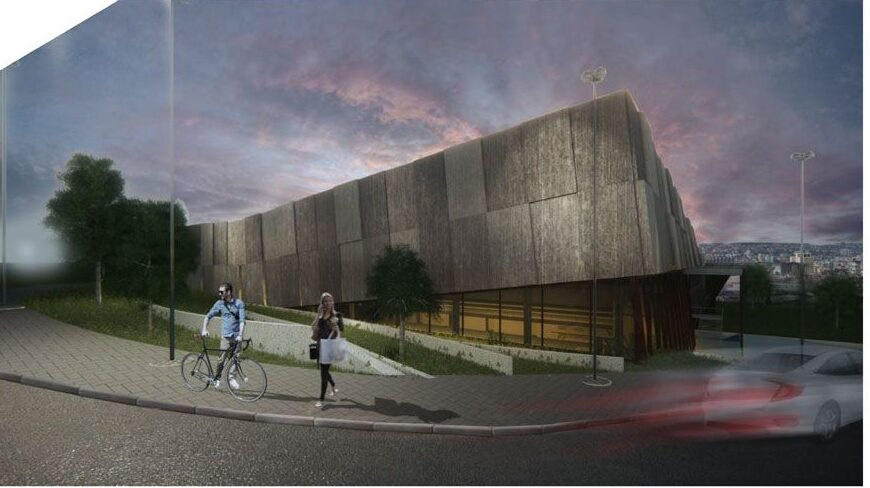
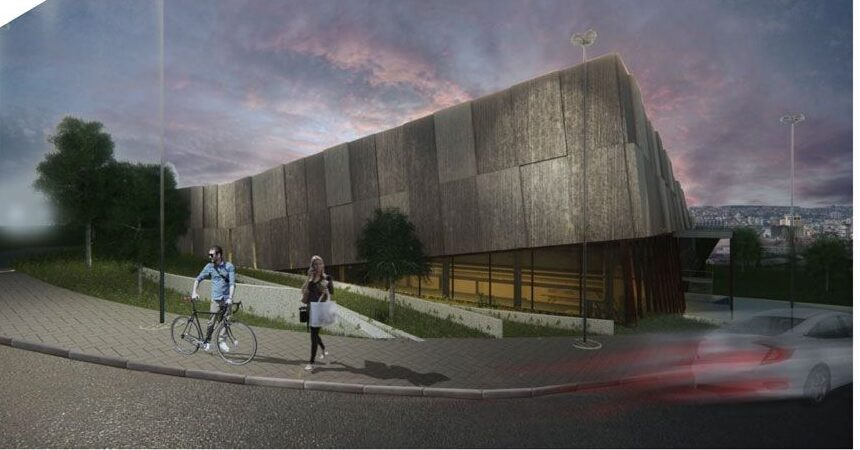
Interactive hero caption, one-row headline, no footer email
Hero now has a caption card (slide count, category, serif title and a
stretching arrow) that animates between slides, progress bars that
fill per slide and pause on hover, and a View badge that follows the
mouse. Headline and intro share one row aligned to the bottom. Removes
the email from the footer and recrops the Olympic Pool hero image.

Claude-Session: https://claude.ai/code/session_011SRKs6sdjGeEEZkMoVuVf3

diff --git a/styles.css b/styles.css
@@ -88,20 +88,62 @@ section[id] { scroll-margin-top: 72px; }
 .hero-slide.active { opacity: 1; pointer-events: auto; }
 .hero-slide img, .hero-slide svg { width: 100%; height: 100%; object-fit: cover; transform: scale(1.04); transition: transform 7s ease-out; }
 .hero-slide.active img { transform: scale(1); }
-.hero-caption {
-  position: absolute; left: 20px; bottom: 18px; padding: 8px 14px; border-radius: 6px;
-  background: rgba(17,17,17,.72); color: #f3f2ee; font-size: 14px; backdrop-filter: blur(6px);
+
+/* Hero caption card */
+.hero-card {
+  position: absolute; left: 20px; bottom: 20px; z-index: 2; display: grid; gap: 6px; min-width: 240px;
+  padding: 16px 20px 14px; border-radius: 8px; color: #f3f2ee;
+  background: rgba(17,17,17,.55); backdrop-filter: blur(12px); -webkit-backdrop-filter: blur(12px);
+  transition: background .3s, transform .3s;
 }
-.hero-caption span { display: inline-block; transition: transform .2s; }
-.hero-slide:hover .hero-caption span { transform: translateX(4px); }
-.hero-dots { position: absolute; right: 20px; bottom: 22px; display: flex; gap: 8px; }
-.hero-dots button { width: 28px; height: 3px; background: rgba(255,255,255,.5); border-radius: 2px; }
-.hero-dots button.active { background: #fff; }
+.hero-card:hover { background: rgba(17,17,17,.78); transform: translateY(-2px); }
+.hero-card > * { transition: opacity .28s ease, transform .28s ease; }
+.hero-card.swap > * { opacity: 0; transform: translateY(8px); }
+.hero-card-meta { display: flex; gap: 12px; font-size: 12px; letter-spacing: .08em; text-transform: uppercase; opacity: .75; }
+.hero-card-title { font-family: var(--serif); font-size: clamp(24px, 2.4vw, 36px); line-height: 1.05; }
+.hero-card-cta { display: flex; align-items: center; gap: 10px; font-size: 14px; margin-top: 4px; }
+.hero-arrow { position: relative; width: 28px; height: 1.3px; background: currentColor; transition: width .35s cubic-bezier(.2,.7,.2,1); }
+.hero-arrow::after {
+  content: ""; position: absolute; right: 0; top: 50%; width: 7px; height: 7px;
+  border-top: 1.3px solid currentColor; border-right: 1.3px solid currentColor; transform: translateY(-50%) rotate(45deg);
+}
+.hero-card:hover .hero-arrow { width: 64px; }
+
+/* Hero progress bars: the active one fills over the slide duration */
+.hero-progress {
+  position: absolute; right: 20px; bottom: 20px; z-index: 2; display: flex; gap: 8px; padding: 6px 12px; border-radius: 999px;
+  background: rgba(17,17,17,.55); backdrop-filter: blur(12px); -webkit-backdrop-filter: blur(12px);
+}
+.hero-progress button { position: relative; width: 36px; height: 14px; }
+.hero-progress button::before, .hero-progress i {
+  content: ""; position: absolute; left: 0; right: 0; top: 6px; height: 2px; border-radius: 2px; background: rgba(255,255,255,.45);
+}
+.hero-progress i { right: auto; width: 0; background: #fff; }
+.hero-progress .done i { width: 100%; }
+.hero-progress .active i { animation: hero-fill 6s linear forwards; }
+.hero-media:hover .hero-progress .active i { animation-play-state: paused; }
+@keyframes hero-fill { from { width: 0; } to { width: 100%; } }
+
+/* "View" cursor badge */
+.hero-cursor {
+  position: absolute; left: 0; top: 0; z-index: 1; width: 88px; height: 88px; margin: -44px 0 0 -44px;
+  display: grid; place-items: center; border-radius: 50%; pointer-events: none;
+  background: rgba(243,242,238,.92); color: #111; font-size: 14px; font-weight: 500;
+  opacity: 0; scale: .4; transition: opacity .25s, scale .25s;
+}
+.hero-cursor.on { opacity: 1; scale: 1; }
+.hero-media:has(.hero-cursor.on) .hero-slide { cursor: none; }
+
+/* Headline and intro share one row; intro aligns to the headline's last line */
+.hero-text {
+  display: grid; grid-template-columns: 7fr 5fr; gap: clamp(24px, 4vw, 64px); align-items: end;
+  margin-top: clamp(32px, 4vw, 64px);
+}
 .hero-tagline {
   font-family: var(--serif); font-weight: 400; font-size: clamp(34px, 4.6vw, 76px); line-height: 1.02; letter-spacing: -0.015em;
-  margin: clamp(32px, 4vw, 64px) 0 clamp(24px, 3vw, 48px); max-width: 22ch;
+  margin: 0;
 }
-.hero-intro { margin-left: 45.8%; max-width: 46ch; font-size: clamp(17px, 1.3vw, 20px); }
+.hero-intro { margin: 0; font-size: clamp(17px, 1.3vw, 20px); padding-bottom: .35em; }
 
 /* Sections */
 .section { padding: clamp(64px, 9vw, 140px) var(--pad); }
@@ -178,7 +220,8 @@ section[id] { scroll-margin-top: 72px; }
 
 /* Footer */
 .site-footer { padding: clamp(48px, 6vw, 96px) var(--pad) 24px; }
-.footer-row { display: grid; grid-template-columns: 10fr 6fr 8fr; gap: var(--gap); font-size: 15px; }
+.footer-row { display: grid; grid-template-columns: 1fr auto; gap: var(--gap); font-size: 15px; }
+.footer-row p:last-child { text-align: right; }
 .footer-row a:hover { opacity: .7; }
 .copyright { margin-top: clamp(40px, 6vw, 80px); font-size: 13px; color: var(--muted); }
 
@@ -224,7 +267,9 @@ body.locked { overflow: hidden; }
   .hero-media { aspect-ratio: 4 / 3; }
   .nav, .site-header > .btn { display: none; }
   .burger { display: block; }
-  .hero-intro { margin-left: 0; }
+  .hero-text { grid-template-columns: 1fr; }
+  .hero-card { left: 12px; bottom: 12px; min-width: 0; padding: 12px 14px; }
+  .hero-progress { right: 12px; bottom: auto; top: 12px; }
   .carousel-track { grid-auto-columns: 82%; }
   .explore-row { grid-template-columns: 1fr; }
   .explore-row .explore-media { order: -1; }
@@ -235,6 +280,7 @@ body.locked { overflow: hidden; }
   .about-portrait { max-width: 480px; }
   .contact-body { padding-top: 0; }
   .footer-row { grid-template-columns: 1fr; gap: 16px; }
+  .footer-row p:last-child { text-align: left; }
 }
 @media (max-width: 560px) {
   .exp-cols { grid-template-columns: 1fr; gap: 36px; }

diff --git a/script.js b/script.js
@@ -6,26 +6,65 @@
 
   document.title = `${data.name} — ${data.title}`;
 
-  /* ── Hero: crossfading project images, each linking to its project ── */
+  /* ── Hero: crossfading project images with a caption card, progress bars and a "View" cursor ── */
   const heroes = (data.heroImages || [{ src: data.heroImage || cover(data.projects[0]) }]).map((h) => ({
     ...h, p: data.projects.find((p) => p.id === h.project),
   }));
-  $("#hero-media").innerHTML = heroes.map((h, i) => `
-    <a class="hero-slide${i ? "" : " active"}" ${h.p ? `href="${projectUrl(h.p)}"` : ""}>
+  const pad2 = (n) => String(n).padStart(2, "0");
+  const hero = $("#hero-media");
+  hero.innerHTML = heroes.map((h, i) => `
+    <a class="hero-slide${i ? "" : " active"}" ${h.p ? `href="${projectUrl(h.p)}"` : ""} tabindex="-1" aria-hidden="${!!i}">
       ${media(h.src, h.p ? h.p.title : data.name, "hero" + i, null, 1600, 900).replace(' loading="lazy"', "")}
-      ${h.p ? `<span class="hero-caption">${esc(h.p.title)} <span>→</span></span>` : ""}
-    </a>`).join("") + (heroes.length > 1 ? `<div class="hero-dots">${heroes.map((_, i) => `<button aria-label="Show image ${i + 1}"${i ? "" : ' class="active"'}></button>`).join("")}</div>` : "");
-  if (heroes.length > 1) {
-    const slides = [...document.querySelectorAll(".hero-slide")], dots = [...document.querySelectorAll(".hero-dots button")];
-    let cur = 0, timer;
-    const show = (n) => {
-      cur = (n + slides.length) % slides.length;
-      slides.forEach((s, i) => s.classList.toggle("active", i === cur));
-      dots.forEach((d, i) => d.classList.toggle("active", i === cur));
-    };
-    const play = () => { clearInterval(timer); if (!matchMedia("(prefers-reduced-motion: reduce)").matches) timer = setInterval(() => show(cur + 1), 5500); };
-    dots.forEach((d, i) => d.addEventListener("click", () => { show(i); play(); }));
-    play();
+    </a>`).join("") + `
+    <a class="hero-card" href="#">
+      <span class="hero-card-meta"><span class="hero-count"></span><span class="hero-cat"></span></span>
+      <span class="hero-card-title"></span>
+      <span class="hero-card-cta">View project <span class="hero-arrow" aria-hidden="true"></span></span>
+    </a>
+    ${heroes.length > 1 ? `<div class="hero-progress">${heroes.map((h, i) =>
+      `<button aria-label="Show ${esc(h.p ? h.p.title : "image " + (i + 1))}"><i></i></button>`).join("")}</div>` : ""}
+    <span class="hero-cursor" aria-hidden="true">View</span>`;
+
+  const slides = [...hero.querySelectorAll(".hero-slide")], bars = [...hero.querySelectorAll(".hero-progress button")];
+  const card = hero.querySelector(".hero-card");
+  let cur = 0;
+  const fillCard = () => {
+    const p = heroes[cur].p;
+    card.hidden = !p;
+    if (!p) return;
+    card.href = projectUrl(p);
+    card.querySelector(".hero-count").textContent = `${pad2(cur + 1)} / ${pad2(heroes.length)}`;
+    card.querySelector(".hero-cat").textContent = p.category || "";
+    card.querySelector(".hero-card-title").textContent = p.title;
+  };
+  const show = (n) => {
+    cur = (n + slides.length) % slides.length;
+    slides.forEach((s, i) => { s.classList.toggle("active", i === cur); s.setAttribute("aria-hidden", i !== cur); });
+    bars.forEach((b, i) => { b.classList.toggle("active", i === cur); b.classList.toggle("done", i < cur); });
+    // Restart the progress animation on the active bar
+    const fill = bars[cur]?.querySelector("i");
+    if (fill) { fill.style.animation = "none"; void fill.offsetWidth; fill.style.animation = ""; }
+    card.classList.add("swap");
+    setTimeout(() => { fillCard(); card.classList.remove("swap"); }, 280);
+  };
+  fillCard();
+  show(0);
+  // The active bar's fill animation drives the timing; hovering the hero pauses it (see CSS)
+  bars.forEach((b, i) => {
+    b.addEventListener("click", () => show(i));
+    b.querySelector("i").addEventListener("animationend", () => i === cur && show(cur + 1));
+  });
+
+  // A "View" badge that follows the mouse over the image (mouse/trackpad only)
+  const cursor = hero.querySelector(".hero-cursor");
+  if (matchMedia("(pointer: fine)").matches) {
+    hero.addEventListener("mousemove", (e) => {
+      const r = hero.getBoundingClientRect();
+      const overUi = e.target.closest(".hero-card, .hero-progress");
+      cursor.classList.toggle("on", !overUi && !!heroes[cur].p);
+      cursor.style.transform = `translate(${e.clientX - r.left}px, ${e.clientY - r.top}px)`;
+    });
+    hero.addEventListener("mouseleave", () => cursor.classList.remove("on"));
   }
 
   /* ── Projects carousel ── */

diff --git a/index.html b/index.html
@@ -22,8 +22,10 @@
   <main id="top">
     <section class="hero">
       <div class="hero-media reveal" id="hero-media"></div>
-      <h1 class="hero-tagline reveal" data-bind="tagline"></h1>
-      <p class="hero-intro reveal" data-bind="intro"></p>
+      <div class="hero-text">
+        <h1 class="hero-tagline reveal" data-bind="tagline"></h1>
+        <p class="hero-intro reveal" data-bind="intro"></p>
+      </div>
     </section>
 
     <section id="projects" class="section">

diff --git a/common.js b/common.js
@@ -119,7 +119,6 @@
   <footer class="site-footer theme-black">
     <div class="footer-row">
       <p>${esc(data.footerLine)}</p>
-      <p><a href="mailto:${esc(data.email)}">${esc(data.email)}</a>${data.phone ? `<br />${esc(data.phone)}` : ""}</p>
       <p>${links.join("<br />")}</p>
     </div>
     <p class="copyright">© ${new Date().getFullYear()} ${esc(data.name)}</p>
